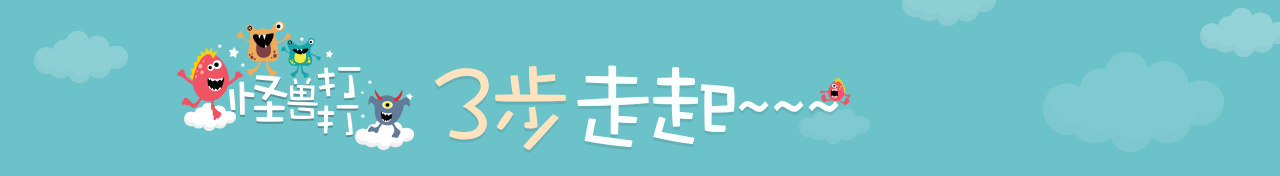
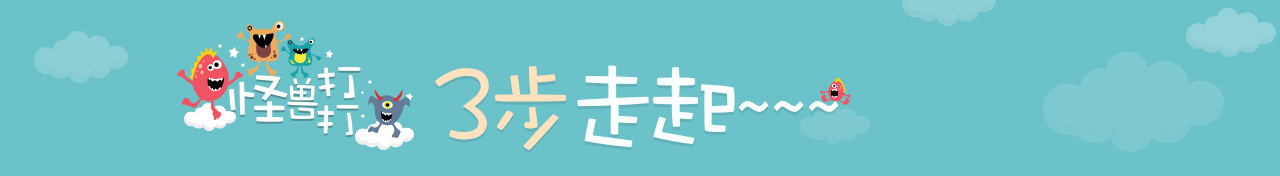
update style

Changed region(s): [[0.9062, 0.142, 1.0, 0.3125], [0.9375, 0.0284, 1.0, 0.1705]]

diff --git a/Gaia/styles/entrance.css b/Gaia/styles/entrance.css
@@ -90,7 +90,7 @@ body {
 
   /* line 38, ../sass/entrance.scss */
   h1 {
-    background: url(../images/g_guide_top.png) no-repeat center top;
+    background: #6bc2c9 url(../images/g_guide_top.png) no-repeat center top;
     height: 176px;
     -webkit-box-shadow: 0 3px 3px #d29753;
     text-indent: 100%;

diff --git a/game/styles/entrance.css b/game/styles/entrance.css
@@ -90,7 +90,7 @@ body {
 
   /* line 38, ../sass/entrance.scss */
   h1 {
-    background: url(../images/g_guide_top.png) no-repeat center top;
+    background: #6bc2c9 url(../images/g_guide_top.png) no-repeat center top;
     height: 176px;
     -webkit-box-shadow: 0 3px 3px #d29753;
     text-indent: 100%;

diff --git a/game/sass/entrance.scss b/game/sass/entrance.scss
@@ -36,7 +36,7 @@ body {
     }
   }
   h1 {
-    background: url(../images/g_guide_top.png) no-repeat center top;
+    background: #6bc2c9 url(../images/g_guide_top.png) no-repeat center top;
     height: 176px;
     -webkit-box-shadow: 0 3px 3px #d29753;
     @include hide-text;
